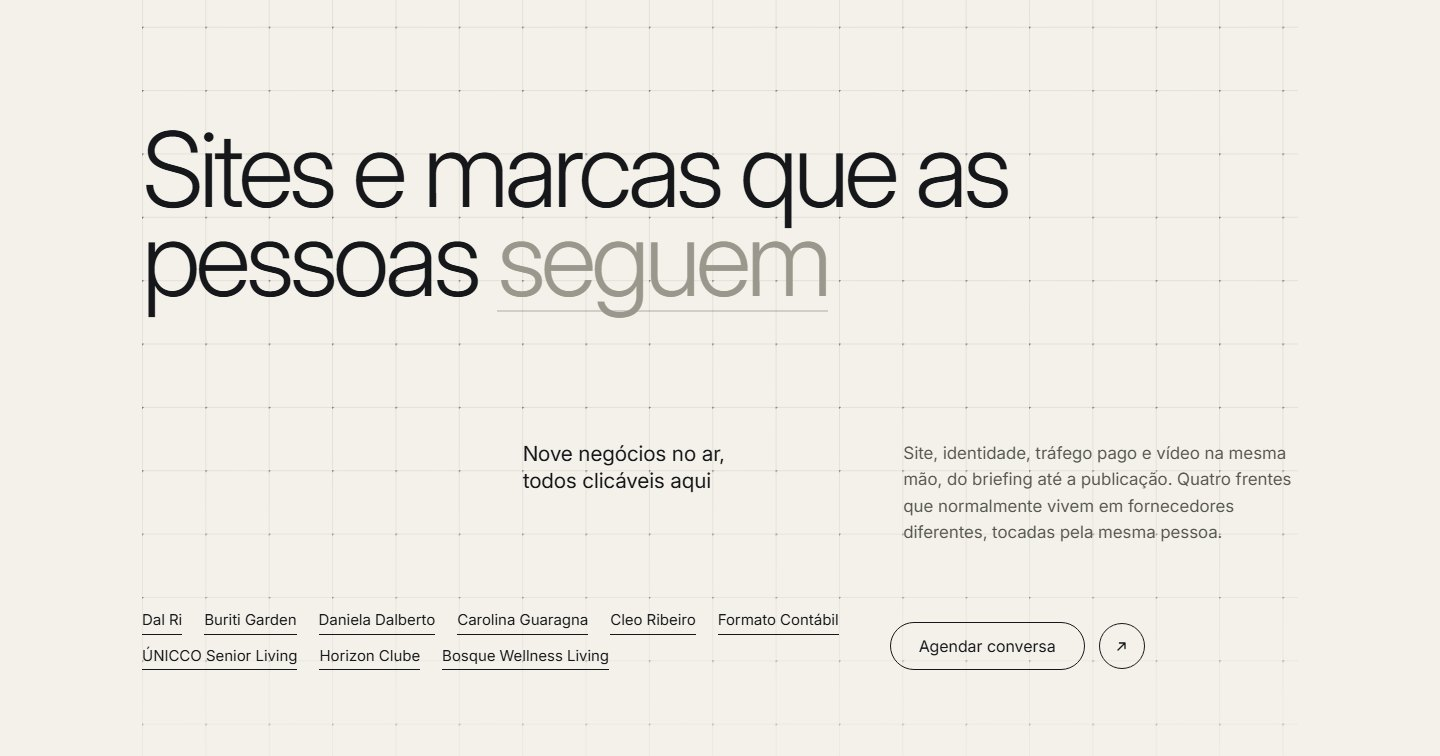
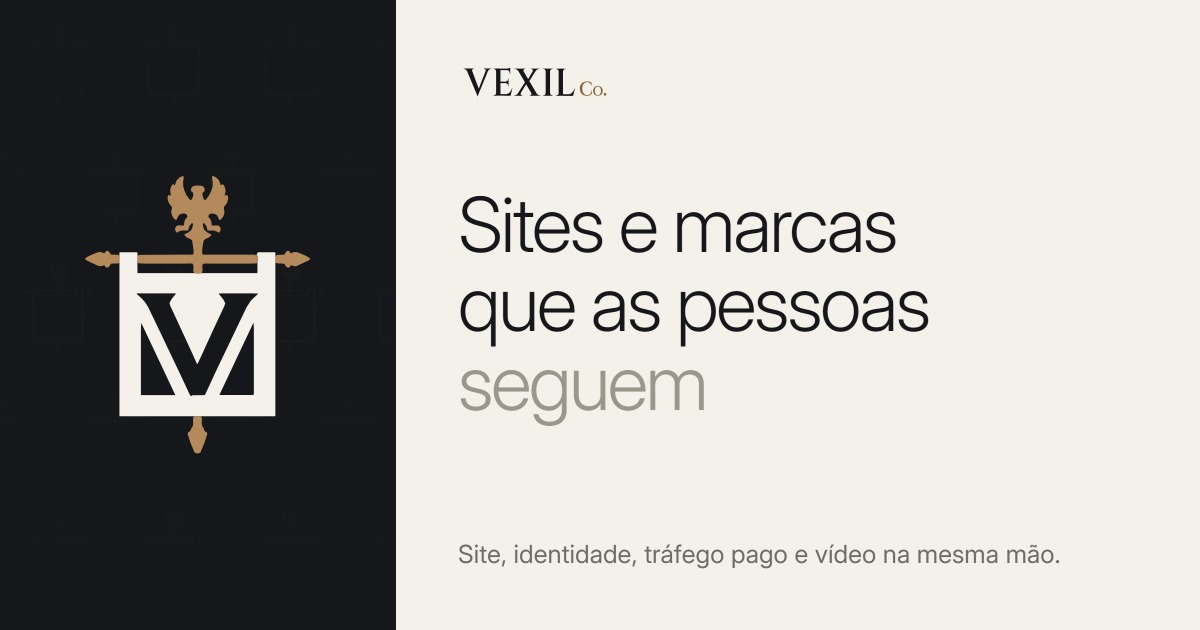
Arte de compartilhamento propria, servida pelo dominio
A imagem de OG era um print do topo da pagina em 1440x756, sem a marca e
ilegivel no tamanho de previa. No lugar dela, um cartao montado com o
estandarte inverso oficial sobre tinta e a frase sobre marfim, em 1200x630.

Com o certificado de vexil.company emitido hoje, og:image e twitter:image
saem da conta de previas de cliente e passam a apontar para o proprio
dominio, como o comentario temporario no arquivo pedia.

diff --git a/index.html b/index.html
@@ -17,17 +17,17 @@
 <meta property="og:url" content="https://vexil.company/">
 <meta property="og:title" content="Vexil Co. — sites e marcas que as pessoas seguem">
 <meta property="og:description" content="Site, identidade, tráfego pago e vídeo na mesma mão. Nove negócios no ar, todos clicáveis.">
-<!-- TEMPORARIO: enquanto o certificado de vexil.company nao e emitido, a imagem
-     de compartilhamento mora num endereco com https valido, senao toda previa de
-     link sai quebrada. Voltar para https://vexil.company/share.jpg depois. -->
-<meta property="og:image" content="https://juniorfever.github.io/clientes/vexil/share.jpg">
-<meta property="og:image:width" content="1440">
-<meta property="og:image:height" content="756">
-<meta property="og:image:alt" content="Abertura do site da Vexil Co. com a frase Sites e marcas que as pessoas seguem e a lista dos nove negócios">
+<meta property="og:image" content="https://vexil.company/share.jpg">
+<meta property="og:image:secure_url" content="https://vexil.company/share.jpg">
+<meta property="og:image:type" content="image/jpeg">
+<meta property="og:image:width" content="1200">
+<meta property="og:image:height" content="630">
+<meta property="og:image:alt" content="Cartão da Vexil Co.: o estandarte da marca em bronze sobre tinta ao lado da frase Sites e marcas que as pessoas seguem">
 <meta name="twitter:card" content="summary_large_image">
 <meta name="twitter:title" content="Vexil Co. — sites e marcas que as pessoas seguem">
 <meta name="twitter:description" content="Site, identidade, tráfego pago e vídeo na mesma mão. Nove negócios no ar, todos clicáveis.">
-<meta name="twitter:image" content="https://juniorfever.github.io/clientes/vexil/share.jpg">
+<meta name="twitter:image" content="https://vexil.company/share.jpg">
+<meta name="twitter:image:alt" content="Cartão da Vexil Co.: o estandarte da marca em bronze sobre tinta ao lado da frase Sites e marcas que as pessoas seguem">
 
 <link rel="icon" href="favicon.svg" type="image/svg+xml">
 <link rel="apple-touch-icon" href="apple-touch-icon.png">
